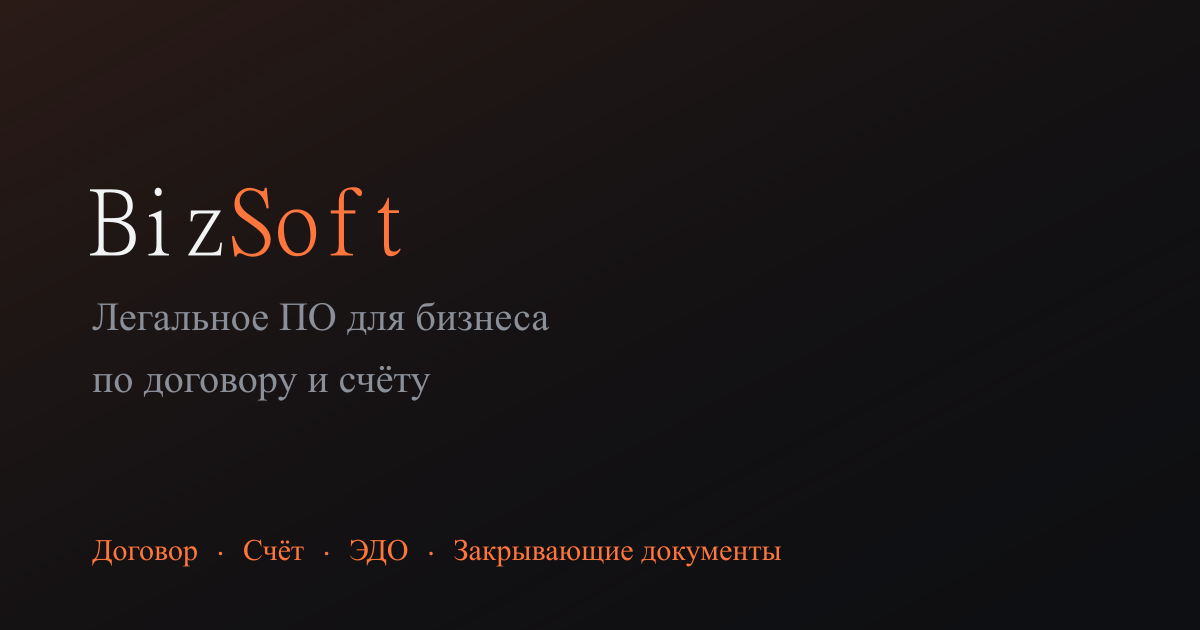
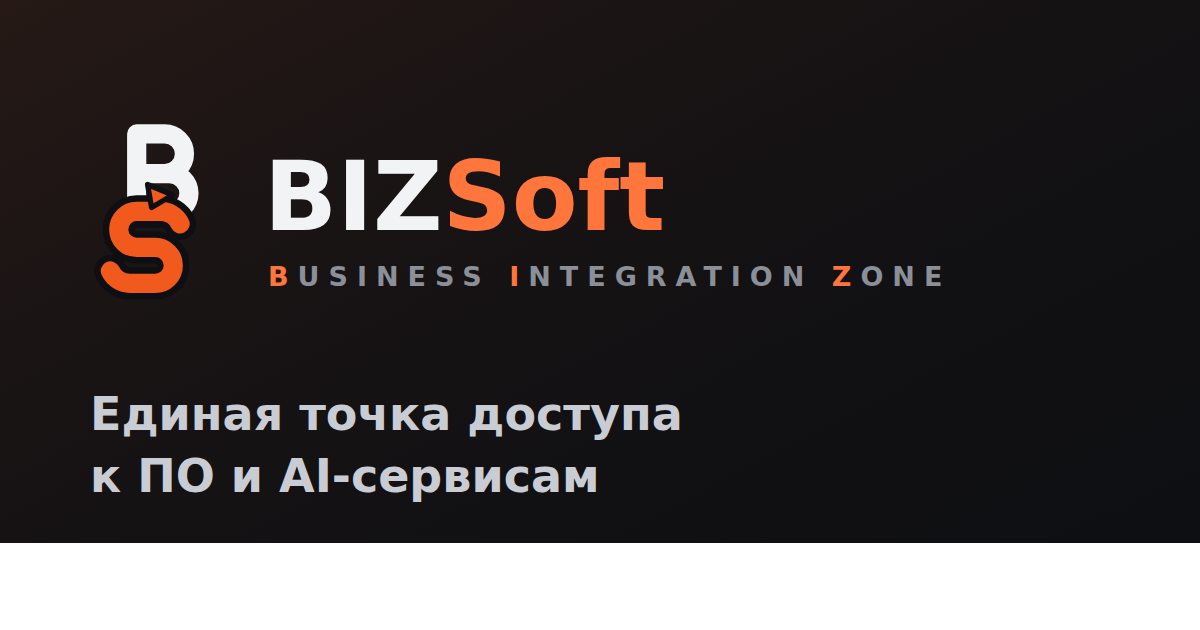
Фирменный логотип BIZSoft + ребрендинг Freepik → Magnific (#26)
* feat(vendors): новый заголовок и описание, однострочный алфавитный фильтр, приоритет собственных логотипов

- H1: «Каталог (ПО) программного обеспечения и web-сервисов»; лид про
  бессрочные лицензии, годовые подписки, API-ключи и токены пополнения.
- Алфавитный фильтр на десктопе (≥861px) строго в одну строку: буквы
  ужимаются flex'ом, подпись «Фильтр:» скрывается на узких десктопах;
  на мобильных прежний перенос.
- build-logos.mjs: файл public/brand-logos/<slug>.(svg|png|webp) теперь
  высший приоритет — копируется под SEO-именем <slug>-logo.<ext> и
  попадает в LOGO_FILE вместо глифа/монограммы. Генератор включён в
  pnpm build, поэтому достаточно добавить файл и задеплоить.
- ops-vendors-audit.yml: аудит прода — какие вендоры без логотипа
  (результат в issue #22).

Claude-Session: https://claude.ai/code/session_01Q11cieVaX5Ys7zji9rwR2b

* feat(brand): фирменный логотип BIZSoft повсюду + ребрендинг Freepik → Magnific

Логотип (векторная отрисовка фирменного знака):
- SiteLogo.astro — монограмма BS (графитовая B, акцентная S,
  треугольник-курсор) + BIZSoft + слоган-аббревиатура BUSINESS
  INTEGRATION ZONE; в подвале — полный лок-ап со слоганом
  «Единая точка доступа к ПО и AI-сервисам».
- Шапка и подвал переведены на новый лого; favicon.svg и
  og-default.svg/png перерисованы с новым знаком.
- site.ts: name/brand → BIZSoft, tagline → новый слоган (подхватывают
  SeoHead, PDF-КП, JSON-LD Organization); PDF и письма — BIZSoft.
[…]

diff --git a/src/config/site.ts b/src/config/site.ts
@@ -32,7 +32,7 @@ export interface SellerDetails {
 }
 
 export const seller: SellerDetails = {
-  brand: 'BizSoft',
+  brand: 'BIZSoft',
   legalName: 'Индивидуальный предприниматель Беляев Алексей Васильевич',
   shortName: 'ИП Беляев А.В.',
   address: '115569, Москва, Каширское шоссе 80К1',
@@ -55,12 +55,12 @@ export const seller: SellerDetails = {
 };
 
 export const site = {
-  name: 'BizSoft',
+  name: 'BIZSoft',
   domain: 'biz-soft.pro',
   url: 'https://biz-soft.pro',
-  tagline: 'Легальное ПО для бизнеса по договору и счёту',
+  tagline: 'Единая точка доступа к ПО и AI-сервисам',
   description:
-    'BizSoft — поставка подписок и доступа к зарубежным ПО-сервисам для российских юрлиц: по договору, с оплатой по счёту и закрывающими документами через ЭДО.',
+    'BIZSoft (Business Integration Zone) — единая точка доступа к зарубежным ПО- и AI-сервисам для российских юрлиц: по договору, с оплатой по счёту и закрывающими документами через ЭДО.',
   // Срок действия коммерческого предложения по умолчанию (дней)
   quoteValidDays: 14,
   // Дефолтная наценка при привязке к курсу (страховка, если не задана у товара)

diff --git a/src/lib/mailer.ts b/src/lib/mailer.ts
@@ -23,7 +23,7 @@ const port = Number(process.env.SMTP_PORT || import.meta.env.SMTP_PORT || 587);
 const secure = String(process.env.SMTP_SECURE || import.meta.env.SMTP_SECURE || 'false') === 'true';
 const user = process.env.SMTP_USER || import.meta.env.SMTP_USER || '';
 const pass = process.env.SMTP_PASS || import.meta.env.SMTP_PASS || '';
-const from = process.env.SMTP_FROM || import.meta.env.SMTP_FROM || 'BizSoft <hello@biz-soft.pro>';
+const from = process.env.SMTP_FROM || import.meta.env.SMTP_FROM || 'BIZSoft <hello@biz-soft.pro>';
 
 let transporter: nodemailer.Transporter | null = null;
 function getTransport(): nodemailer.Transporter | null {
@@ -68,4 +68,4 @@ export const managerEmail =
 
 /** Адрес отправителя для писем клиентам (КП, ответы). */
 export const salesFrom =
-  process.env.SMTP_FROM_SALES || import.meta.env.SMTP_FROM_SALES || 'BizSoft <hello@biz-soft.pro>';
+  process.env.SMTP_FROM_SALES || import.meta.env.SMTP_FROM_SALES || 'BIZSoft <hello@biz-soft.pro>';

diff --git a/src/data/logos.ts b/src/data/logos.ts
@@ -154,10 +154,11 @@ export const LOGOS: Record<string, BrandLogo> = {
 };
 
 /** Слаги, для которых есть официальный файл public/brand-logos/<slug>.svg. */
-export const FILE_LOGOS: string[] = [];
+export const FILE_LOGOS: string[] = ["magnific"];
 
 /** Сгенерированные цветные SVG-файлы брендов (SEO-имена <slug>-logo.svg). */
 export const LOGO_FILE: Record<string, string> = {
+  "magnific": "/brand-logos/magnific-logo.svg",
   "jetbrains": "/brand-logos/jetbrains-logo.svg",
   "zoom": "/brand-logos/zoom-logo.svg",
   "figma": "/brand-logos/figma-logo.svg",

diff --git a/src/lib/catalog.ts b/src/lib/catalog.ts
@@ -37,7 +37,10 @@ export const VENDOR_LEGAL: Record<string, string> = {
   'Clip Studio Paint': 'CELSYS, Inc.',
   Procreate: 'Savage Interactive Pty Ltd',
   'Astute Graphics': 'Astute Graphics Ltd',
-  Freepik: 'Freepik Company S.L.',
+  Freepik: 'Freepik Company S.L.U.',
+  // Сервис Freepik переименован в Magnific; юрлицо-правообладатель прежнее.
+  'Magnific (Freepik)': 'Freepik Company S.L.U.',
+  Magnific: 'Freepik Company S.L.U.',
   Envato: 'Envato Pty Ltd',
   Shutterstock: 'Shutterstock, Inc.',
   Depositphotos: 'Depositphotos Inc.',

diff --git a/src/lib/pdf-quote.ts b/src/lib/pdf-quote.ts
@@ -52,7 +52,7 @@ export function generateQuotePdf(data: QuoteData): Promise<Buffer> {
       const width = right - left;
 
       // ── Шапка ──
-      doc.font('b').fontSize(22).fillColor(DARK).text('Biz', left, 48, { continued: true });
+      doc.font('b').fontSize(22).fillColor(DARK).text('BIZ', left, 48, { continued: true });
       doc.fillColor(ACCENT).text('Soft');
       doc.font('r').fontSize(9).fillColor(MUTED).text(site.tagline, left, 74);
 

diff --git a/src/pages/api/quote.ts b/src/pages/api/quote.ts
@@ -123,7 +123,7 @@ export const POST: APIRoute = async ({ request }) => {
     from: salesFrom,
     to: data.email,
     replyTo: managerEmail,
-    subject: `Коммерческое предложение № ${quoteNo} — BizSoft`,
+    subject: `Коммерческое предложение № ${quoteNo} — BIZSoft`,
     text: clientText,
     attachments: [attachment],
   }).catch((e) => console.error('quote client mail failed', e));

diff --git a/scripts/rename-magnific.py b/scripts/rename-magnific.py
@@ -1,0 +1,87 @@
+#!/usr/bin/env python3
+"""Ребрендинг Freepik → Magnific в Directus (выполняется на сервере).
+
+Сервис Freepik переименован правообладателем (Freepik Company S.L.U.) в Magnific.
+- vendor: 'Freepik' → 'Magnific (Freepik)' (новое имя + прежнее в скобках);
+- name:   'Freepik …' → 'Magnific …' (прежнее имя остаётся в vendor);
+- keywords: дополняются 'Freepik, Magnific' для поиска по обоим именам;
+- logo:   импортируется /brand-logos/magnific-logo.svg и ставится карточкам.
+
+Запуск: python3 rename-magnific.py [--apply]  (без флага — dry-run)
+Доступ: DIRECTUS_ADMIN_EMAIL/PASSWORD из окружения, иначе DIRECTUS_TOKEN.
+"""
+import json
+import os
+import sys
+import urllib.parse
+import urllib.request
+
+BASE = os.environ.get('DIRECTUS_URL', 'http://127.0.0.1:8055').rstrip('/')
+APPLY = '--apply' in sys.argv
+
+
+def req(method, path, token=None, body=None):
+    url = BASE + path
+    data = json.dumps(body).encode() if body is not None else None
+    r = urllib.request.Request(url, data=data, method=method)
+    r.add_header('Content-Type', 'application/json')
+    if token:
+        r.add_header('Authorization', f'Bearer {token}')
+    with urllib.request.urlopen(r, timeout=30) as resp:
+        return json.loads(resp.read() or b'{}')
+
+
+def auth():
+    email = os.environ.get('DIRECTUS_ADMIN_EMAIL')
+    password = os.environ.get('DIRECTUS_ADMIN_PASSWORD')
+    if email and password:
+        try:
+            d = req('POST', '/auth/login', body={'email': email, 'password': password})
+            print('auth: admin login ok')
+            return d['data']['access_token']
+        except Exception as e:
+            print(f'auth: admin login failed ({e}), пробую статический токен')
+    tok = os.environ.get('DIRECTUS_TOKEN')
+    if not tok:
+        sys.exit('auth: нет ни админ-доступа, ни DIRECTUS_TOKEN')
+    print('auth: static token')
+    return tok
+
+
+def main():
+    tok = auth()
+    rows = req('GET', '/items/products?filter=' + urllib.parse.quote(
+        json.dumps({'vendor': {'_eq': 'Freepik'}})) + '&fields=id,sku,slug,name,keywords&limit=-1', tok)['data']
+    print(f'товаров с vendor=Freepik: {len(rows)}')
+    if not rows:
+        print('нечего менять — возможно, уже переименовано')
+        return
+
+    logo_id = None
+    if APPLY:
+        try:
+            imp = req('POST', '/files/import', tok, {
+                'url': 'https://biz-soft.pro/brand-logos/magnific-logo.svg',
+                'data': {'title': 'Magnific — логотип'},
+            })
+            logo_id = imp['data']['id']
+            print(f'логотип импортирован: {logo_id}')
+        except Exception as e:
+            print(f'импорт логотипа не удался ({e}) — оставляю прежний')
+
+    for p in rows:
+        new_name = p['name'].replace('Freepik', 'Magnific')
+        kw = (p.get('keywords') or '').strip()
+        extra = 'Freepik, Magnific'
+        new_kw = f'{kw}, {extra}' if kw and extra.lower() not in kw.lower() else (kw or extra)
+        patch = {'vendor': 'Magnific (Freepik)', 'name': new_name, 'keywords': new_kw}
+        if logo_id:
+            patch['image'] = logo_id
+        print(f"  {p['sku']}: '{p['name']}' → '{new_name}'" + (' [apply]' if APPLY else ' [dry-run]'))
+        if APPLY:
+            req('PATCH', f"/items/products/{p['id']}", tok, patch)
+
+    print('готово' if APPLY else 'dry-run завершён — запустите с --apply')
+
+
+main()
